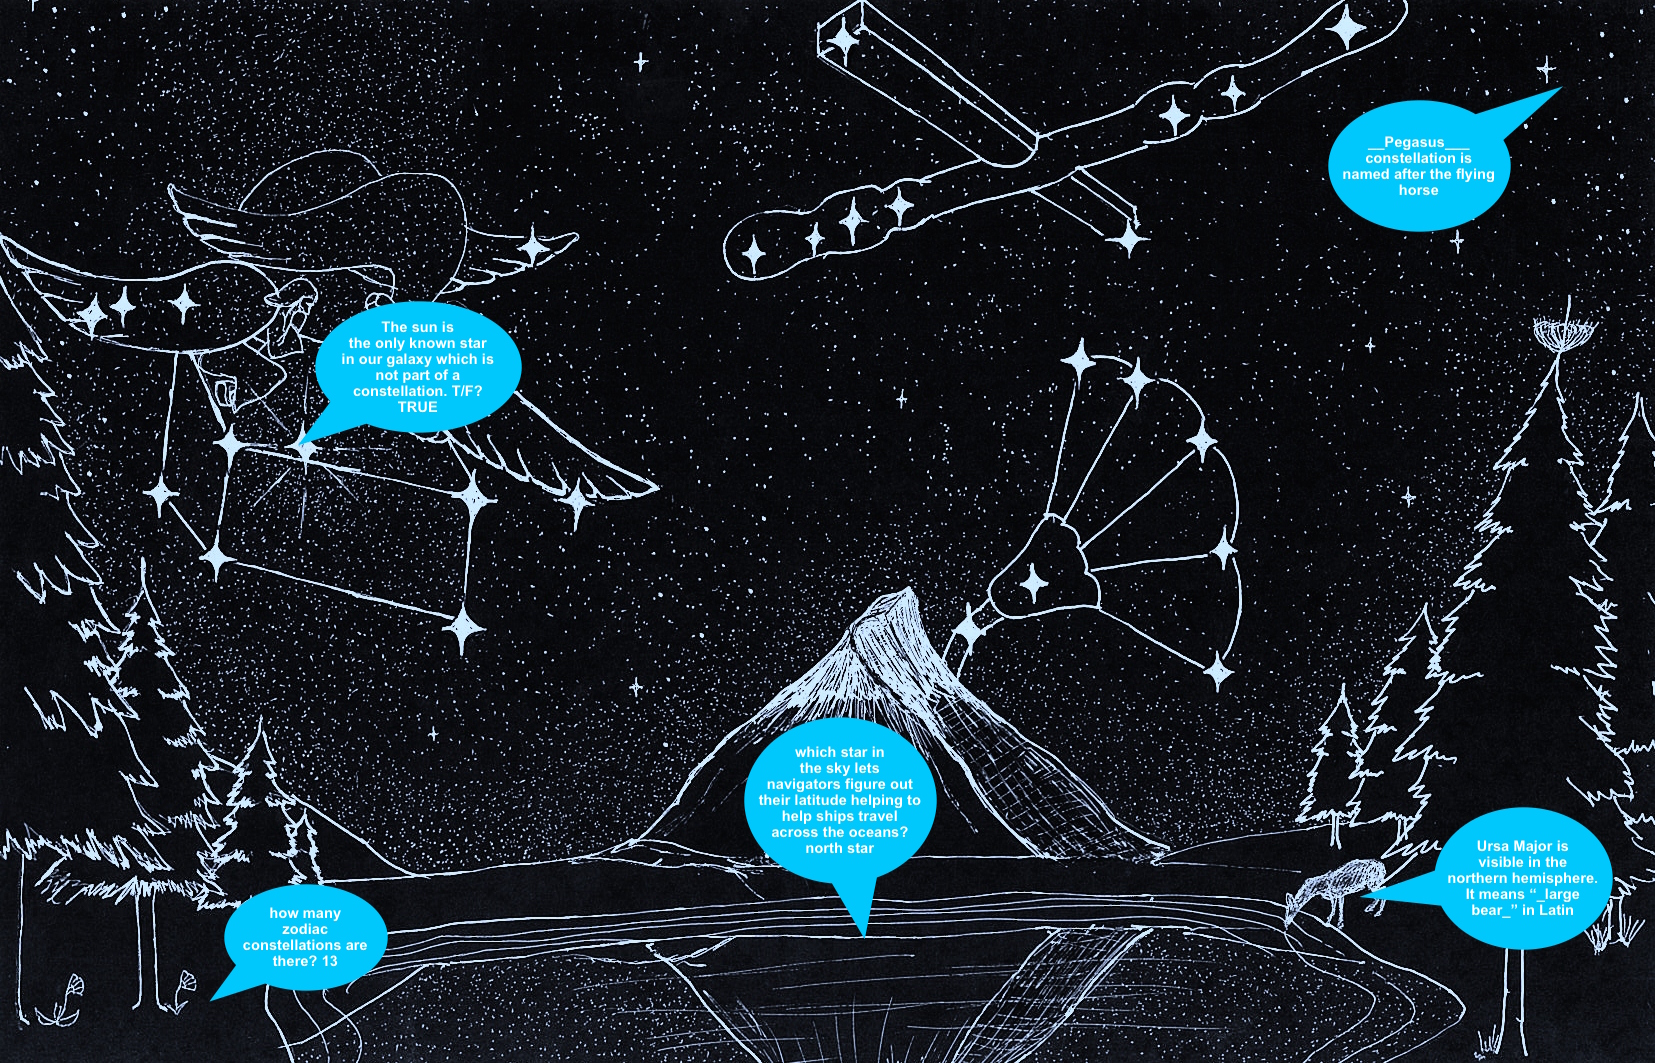
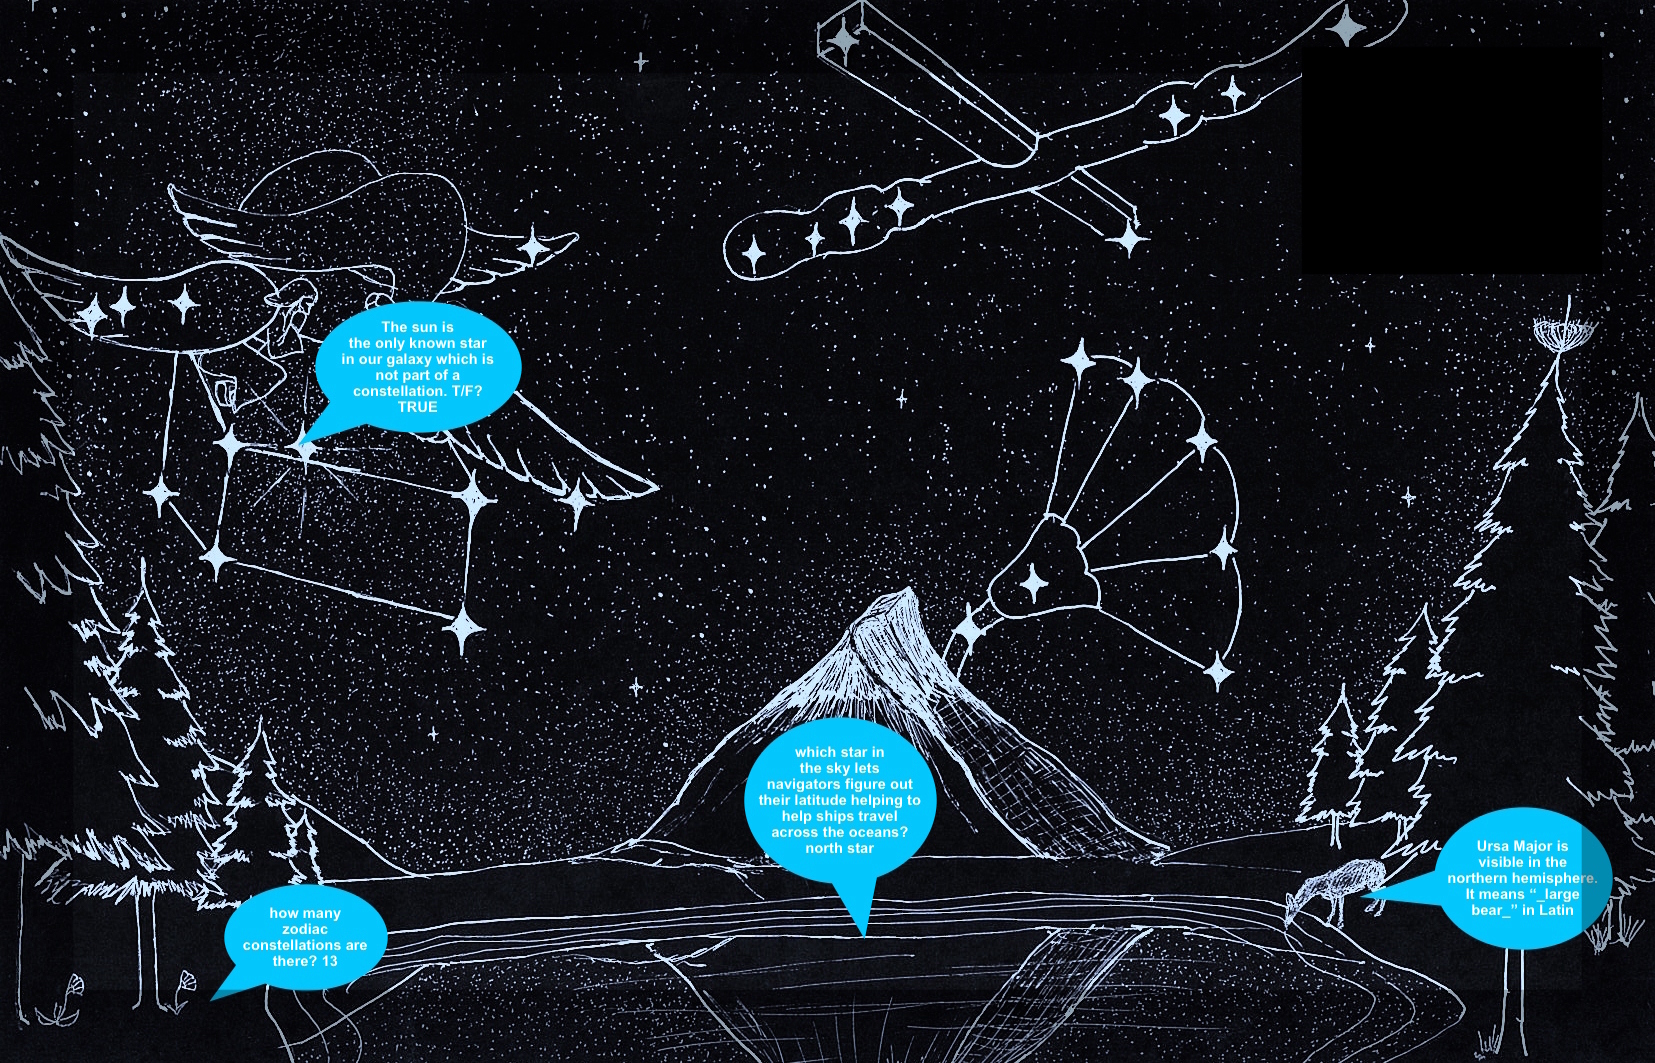
all links work now for constellation page to get questions

diff --git a/game.py b/game.py
@@ -36,9 +36,9 @@ def startPage():
                 if (mousex > 680 and mousex < 780 and mousey > 475 and mousey < 580):
                     while True:
                         #manOnMoonRoom()
-                        #constellationRoom()
-                        dinosaurRoom()
-                        grandRoom()
+                        constellationRoom()
+                        #dinosaurRoom()
+                        #grandRoom()
         DISPLAYSURF.fill(BGCOLOR)
         DISPLAYSURF.blit(startBackground, (0, 0))
         pygame.display.update()
@@ -59,14 +59,57 @@ def manOnMoonRoom():
         
 
 def constellationRoom():
-    constellationBackground = pygame.image.load('constellations.jpg')
-    constellationBackground = pygame.transform.scale(constellationBackground, (WINDOWWIDTH, WINDOWHEIGHT))
+    constellationBkgd = pygame.image.load('constellations.jpg')
+    constellationBkgd = pygame.transform.scale(constellationBkgd, (WINDOWWIDTH, WINDOWHEIGHT))
+    clueClicked = 0
+    clueText = None
+    score = 0
+    answered = [0, 0, 0, 0]
     while True: # main game loop
         for event in pygame.event.get(): # event handling loop
             if event.type == QUIT:
                 terminate()
+            elif event.type == MOUSEBUTTONDOWN:
+                mousex, mousey = event.pos
+                print mousex
+                print mousey
+                if (mousex > 125 and mousex < 165 and mousey > 229 and mousey < 269):
+                    clueClicked = -1
+                    clueText = "The ___ is the only known star in our galaxy which is not part of a constellation."
+                    answer1 = "Rigel"
+                    answer2 = "Sun"
+                    answer3 = "Capella A"
+                    answer = 2
+                elif (mousex > 80 and mousex < 120 and mousey > 546 and mousey < 586):
+                    clueClicked = -1
+                    clueText = "How many zodiac constellations are there?"
+                    answer1 = "13"
+                    answer2 = "14"
+                    answer3 = "11"
+                    answer = 1
+                elif (mousex > 479 and mousex < 529 and mousey > 309 and mousey < 349):
+                    clueClicked = -1
+                    clueText = "The _____ star lets navigators figure out their latitude to help ships travel across the oceans."
+                    answer1 = "Bright"
+                    answer2 = "South"
+                    answer3 = "North"
+                    answer = 3
+                elif (mousex > 637 and mousex < 677 and mousey > 476 and mousey < 516):
+                    clueClicked = -1
+                    clueText = "Ursa Major is visible in the Southern Hemisphere."
+                    answer1 = "True"
+                    answer2 = "False"
+                    answer3 = "Maybe"
+                    answer = 2
         DISPLAYSURF.fill(BGCOLOR)
-        DISPLAYSURF.blit(constellationBackground, (0, 0))
+        DISPLAYSURF.blit(constellationBkgd, (0, 0))
+        if clueClicked < 0:
+            clueClicked = displayClue(clueText, mousex, mousey, answer1, answer2, answer3, answer)
+            if clueClicked > 0 and answered[clueClicked - 1] == 0:
+                score += 1
+                answered[clueClicked - 1] = 1                
+        if score == 4:
+            return
         pygame.display.update()
         FPSCLOCK.tick(FPS)
         
@@ -84,7 +127,7 @@ def dinosaurRoom():
                 terminate()
             elif event.type == MOUSEBUTTONDOWN:
                 mousex, mousey = event.pos
-                if (mousex > 530 and mousex < 540 and mousey > 355 and mousey < 365):
+                if (mousex > 510 and mousex < 540 and mousey > 335 and mousey < 365):
                     clueClicked = -1
                     clueText = "When did dinosaurs die out"
                     answer1 = "65,000 years ago"
